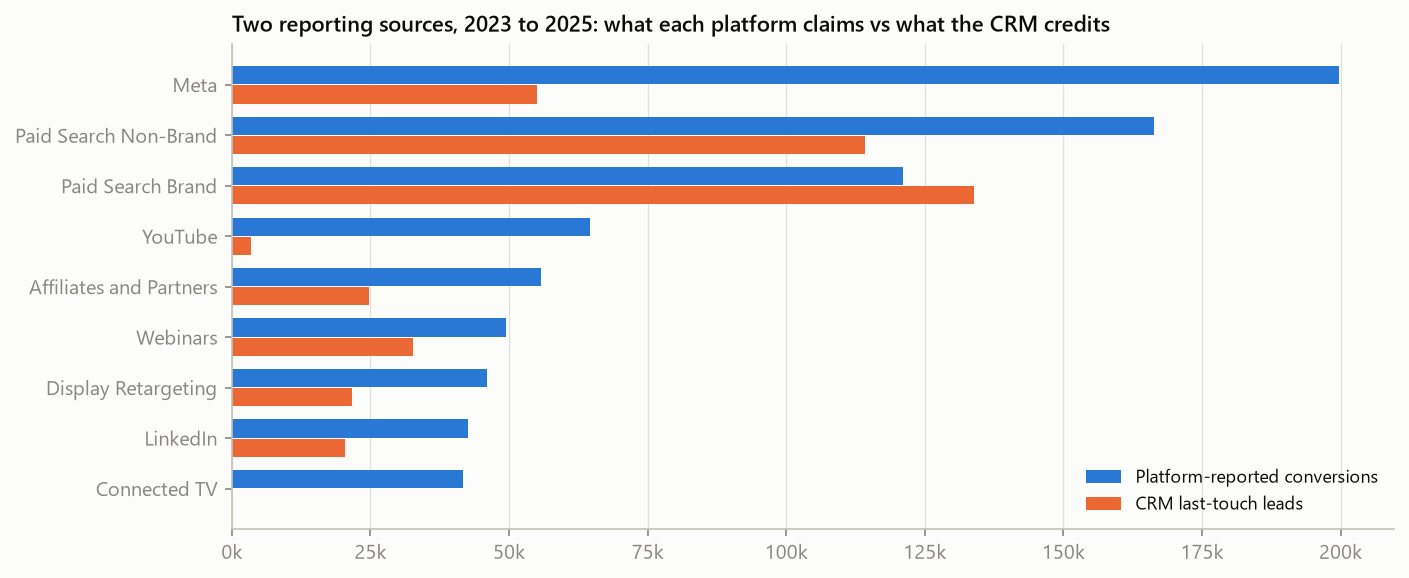
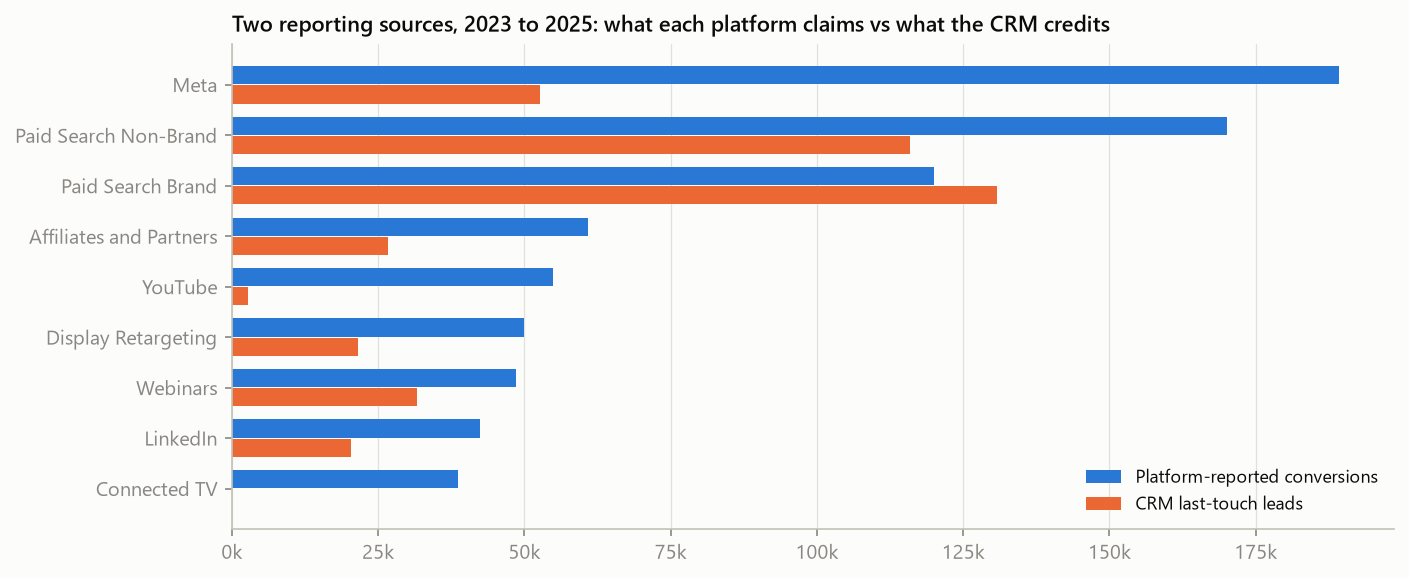
docs(eda): search watch notes without tests, and regenerate the report

diff --git a/eda/report.py b/eda/report.py
@@ -403,9 +403,10 @@ def watch_notes(d, prof) -> dict[str, str]:
     corr_nb = float(np.corrcoef(nat["paid_search_nonbrand"], leads)[0, 1])
     return {
         "paid_search_brand": f"its weekly spend tracks total leads closely (correlation {corr_brand:.2f}). Spend that follows demand "
-                             "can look like it causes demand. The regional pauses are the cleanest evidence of what it adds.",
+                             "can look like it causes demand, and Meta, YouTube and CTV create some of the searches it pays for. It never "
+                             "pauses, so no test separates what it adds from the demand it follows.",
         "paid_search_nonbrand": f"always on and seasonal (correlation with total leads {corr_nb:.2f}), so most of its signal comes "
-                                "from the regional budget tests and pauses, not from week-to-week swings.",
+                                "from quarterly market re-splits and plan changes, not from week-to-week swings.",
         "meta": "pushes land on the busy seasons, so spend rises when demand does. Each market's push comes on its own "
                 "week and at its own size, and that is the contrast to learn from; the June 2025 retest adds a late step up.",
         "linkedin": "always on with no pauses, so its signal comes from quarterly market re-splits and plan changes.",

diff --git a/docs/eda/EDA.md b/docs/eda/EDA.md
@@ -12,13 +12,13 @@ Built by `python -m eda` from the dbt warehouse only: the golden tables plus a f
 | fct_channel_weekly is a full grid | 28,080 rows (expected 28,080) | Pass |
 | fct_funnel is a full grid | 40,560 rows (expected 40,560) | Pass |
 | fct_controls_weekly is a full grid | 3,120 rows (expected 3,120) | Pass |
-| Spend matches the platform exports | $41.9M in both; difference $0.00 | Pass |
+| Spend matches the platform exports | $42.1M in both; difference $0.00 | Pass |
 | No negative values; clicks never exceed impressions | 0 bad rows | Pass |
-| Every lead maps to a channel | 0 unmapped of 830,676; 19% recorded as direct | Pass |
+| Every lead maps to a channel | 0 unmapped of 820,238; 18% recorded as direct | Pass |
 | Lead to close (won deals) | median 14 days; 80% between 8 and 24 | Pass |
-| Censoring at the end of the window | 41% of opportunities from the last 4 weeks are still open; treat the final weeks of deals as incomplete | Note |
+| Censoring at the end of the window | 37% of opportunities from the last 4 weeks are still open; treat the final weeks of deals as incomplete | Note |
 | Promo and price calendar loaded | 4 entries | Pass |
-| Channels are not collinear | largest correlation 0.51 (Meta and LinkedIn); largest VIF 2.0 | Pass |
+| Channels are not collinear | largest correlation 0.46 (Paid Search Brand and Paid Search Non-Brand); largest VIF 2.2 | Pass |
 
 ## 2. Outcome and spend over time
 
@@ -26,9 +26,9 @@ Built by `python -m eda` from the dbt warehouse only: the golden tables plus a f
 
 | Year | Paid spend | Leads | Closed-won deals | New contract value | Spend per deal |
 |---|---|---|---|---|---|
-| 2023 | $14.2M | 241,602 | 11,365 | $31.0M | $1,249 |
-| 2024 | $13.8M | 238,980 | 11,202 | $31.6M | $1,227 |
-| 2025 | $13.9M | 229,039 | 9,842 | $29.4M | $1,414 |
+| 2023 | $13.9M | 235,770 | 10,930 | $29.6M | $1,269 |
+| 2024 | $13.9M | 234,455 | 11,197 | $32.0M | $1,244 |
+| 2025 | $14.3M | 231,238 | 9,999 | $29.8M | $1,435 |
 
 The last few weeks of 2025 are undercounted for deals, because those leads have not had time to close.
 
@@ -40,14 +40,14 @@ Expected pattern for Midwest service fleets: busy when the season turns (AC swit
 
 | Period | Expected | Leads index (100 = average week) | Holds |
 |---|---|---|---|
-| Holiday weeks (51, 52, 1) | well below 100 | 74 | Yes |
-| Thanksgiving week (47) | below 100 | 92 | Yes |
-| Winter after the holidays (weeks 3 to 9) | below 100 | 91 | Yes |
-| Spring switchover, AC on (weeks 19 to 25) | above 100 | 108 | Yes |
-| Summer lull into early fall (weeks 29 to 37) | below 100 | 97 | Yes |
-| Fall switchover, heat on (weeks 40 to 45) | above 100 | 115 | Yes |
+| Holiday weeks (51, 52, 1) | well below 100 | 71 | Yes |
+| Thanksgiving week (47) | below 100 | 94 | Yes |
+| Winter after the holidays (weeks 3 to 9) | below 100 | 92 | Yes |
+| Spring switchover, AC on (weeks 19 to 25) | above 100 | 111 | Yes |
+| Summer lull into early fall (weeks 29 to 37) | below 100 | 95 | Yes |
+| Fall switchover, heat on (weeks 40 to 45) | above 100 | 106 | Yes |
 
-6 of 6 expectations hold. The data matches the planning calendar. During the year-end promo (weeks 46 to 50), deals run +5% relative to leads, which is what a discount on annual plans should do.
+6 of 6 expectations hold. The data matches the planning calendar. During the year-end promo (weeks 46 to 50), deals run +11% relative to leads, which is what a discount on annual plans should do.
 
 ## 4. How the media was flighted
 
@@ -57,15 +57,15 @@ Expected pattern for Midwest service fleets: busy when the season turns (AC swit
 
 | Channel | Weeks on (of 156) | Regions used | Typical run in a region (weeks) | Typical pause (weeks) |
 |---|---|---|---|---|
-| Paid Search Brand | 156 | 20 | 88 | 6 |
-| Paid Search Non-Brand | 156 | 20 | 92 | 7 |
+| Paid Search Brand | 156 | 20 | 156 | none |
+| Paid Search Non-Brand | 156 | 20 | 156 | none |
 | Meta | 156 | 20 | 156 | none |
 | LinkedIn | 156 | 20 | 156 | none |
 | YouTube | 156 | 20 | 156 | none |
-| Connected TV | 129 | 8 | 8 | 16 |
+| Connected TV | 128 | 8 | 7 | 15 |
 | Display Retargeting | 156 | 20 | 156 | none |
 | Affiliates and Partners | 156 | 20 | 156 | none |
-| Webinars | 124 | 20 | 1 | 7 |
+| Webinars | 122 | 20 | 1 | 8 |
 
 Media plan changes logged between annual plans:
 
@@ -95,15 +95,15 @@ Media plan changes logged between annual plans:
 
 | Year | Performance | Brand | Events |
 |---|---|---|---|
-| 2023 | 66% | 29% | 5% |
-| 2024 | 74% | 21% | 5% |
-| 2025 | 77% | 17% | 6% |
+| 2023 | 68% | 27% | 5% |
+| 2024 | 76% | 19% | 5% |
+| 2025 | 78% | 16% | 5% |
 
 ## 6. Reporting sources disagree
 
 ![Claims vs CRM](img/claims_vs_crm.png)
 
-Platforms claim 787,316 conversions in total; the CRM credits 405,762 leads to paid channels. Connected TV gets 0 last-touch leads because nobody clicks a TV ad. Neither source measures what a channel adds; that is the MMM's job.
+Platforms claim 774,768 conversions in total; the CRM credits 402,451 leads to paid channels. Connected TV gets 0 last-touch leads because nobody clicks a TV ad. Neither source measures what a channel adds; that is the MMM's job.
 
 ## 7. Controls
 
@@ -120,32 +120,32 @@ What the data shows about how each channel was bought and reported. These are ob
 
 ### Paid Search Brand
 
-*Performance channel.* Bids on searches for Fernhook. Spend follows how many people search the brand. Twice a year a few markets pause it for a few weeks as a planned brand test.
+*Performance channel.* Bids on every search for Fernhook, always on in every market. Spend follows how many people search the brand, and Meta, YouTube and CTV ads drive some of those searches.
 
-- **When it ran:** On every week of the window; used in 20 of 20 regions, with about 19 active in a typical on-week. Always on within each region, apart from 18 regional pauses of about 6 weeks.
-- **Spend:** 2023: $2.5M, 2024: $2.5M, 2025: $2.4M. Highest in Q2, lowest in Q1; the biggest week was 1.4 times a typical on-week. The top 5 regions take 52% of its spend and hold 50% of target accounts.
+- **When it ran:** On every week of the window; used in 20 of 20 regions, with about 20 active in a typical on-week. Always on in every region it uses.
+- **Spend:** 2023: $2.4M, 2024: $2.5M, 2025: $2.5M. Highest in Q2, lowest in Q3; the biggest week was 1.3 times a typical on-week. The top 5 regions take 50% of its spend and hold 51% of target accounts.
 - **Plan changes:** none between annual plans.
-- **Reporting:** the platform claims 121,092 conversions; the CRM credits 133,831 last-touch leads (0.9 times). Last-touch cost per lead: 2023: $51, 2024: $55, 2025: $60.
-- **What to watch in the MMM:** its weekly spend tracks total leads closely (correlation 0.89). Spend that follows demand can look like it causes demand. The regional pauses are the cleanest evidence of what it adds.
+- **Reporting:** the platform claims 119,955 conversions; the CRM credits 130,792 last-touch leads (0.9 times). Last-touch cost per lead: 2023: $52, 2024: $57, 2025: $61.
+- **What to watch in the MMM:** its weekly spend tracks total leads closely (correlation 0.88). Spend that follows demand can look like it causes demand, and Meta, YouTube and CTV create some of the searches it pays for. It never pauses, so no test separates what it adds from the demand it follows.
 
 ### Paid Search Non-Brand
 
-*Performance channel.* Always on. Budgets lean into busy seasons. Twice a year the team runs planned regional tests: a few markets pause and a few get extra budget.
+*Performance channel.* Always on in every market. Budgets lean into busy seasons and are re-split across markets every quarter.
 
-- **When it ran:** On every week of the window; used in 20 of 20 regions, with about 19 active in a typical on-week. Always on within each region, apart from 12 regional pauses of about 7 weeks.
-- **Spend:** 2023: $3.7M, 2024: $4.2M, 2025: $5.2M. Highest in Q2, lowest in Q4; the biggest week was 1.6 times a typical on-week. The top 5 regions take 50% of its spend and hold 47% of target accounts.
+- **When it ran:** On every week of the window; used in 20 of 20 regions, with about 20 active in a typical on-week. Always on in every region it uses.
+- **Spend:** 2023: $3.7M, 2024: $4.3M, 2025: $5.4M. Highest in Q2, lowest in Q4; the biggest week was 1.6 times a typical on-week. The top 5 regions take 49% of its spend and hold 47% of target accounts.
 - **Plan changes:** Apr 2023 +7% (Q1 review: CTV test expands, YouTube trimmed); Apr 2024 +12% (Attribution review: video and CTV show few last-touch leads); Feb 2025 +9% (New fiscal year: more for what last touch rewards).
-- **Reporting:** the platform claims 166,250 conversions; the CRM credits 114,175 last-touch leads (1.5 times). Last-touch cost per lead: 2023: $106, 2024: $109, 2025: $129.
-- **What to watch in the MMM:** always on and seasonal (correlation with total leads 0.19), so most of its signal comes from the regional budget tests and pauses, not from week-to-week swings.
+- **Reporting:** the platform claims 170,135 conversions; the CRM credits 115,877 last-touch leads (1.5 times). Last-touch cost per lead: 2023: $104, 2024: $110, 2025: $130.
+- **What to watch in the MMM:** always on and seasonal (correlation with total leads 0.42), so most of its signal comes from quarterly market re-splits and plan changes, not from week-to-week swings.
 
 ### Meta
 
 *Brand channel.* Always-on prospecting that pushes before and into the spring and fall busy seasons and eases off in slow weeks. Each market's timing differs.
 
 - **When it ran:** On every week of the window; used in 20 of 20 regions, with about 20 active in a typical on-week. Always on in every region it uses.
-- **Spend:** 2023: $1.5M, 2024: $1.4M, 2025: $1.0M. Highest in Q3, lowest in Q2; the biggest week was 2.3 times a typical on-week. The top 5 regions take 55% of its spend and hold 47% of target accounts.
+- **Spend:** 2023: $1.6M, 2024: $1.1M, 2025: $1.1M. Highest in Q2, lowest in Q4; the biggest week was 1.7 times a typical on-week. The top 5 regions take 42% of its spend and hold 34% of target accounts.
 - **Plan changes:** Oct 2023 -12% (Q4 plan: more retargeting for year-end); Aug 2024 -17% (Cost cut during the hiring freeze); Jun 2025 +23% (Meta retest after a new creative agency).
-- **Reporting:** the platform claims 199,719 conversions; the CRM credits 55,000 last-touch leads (3.6 times). Last-touch cost per lead: 2023: $73, 2024: $72, 2025: $67.
+- **Reporting:** the platform claims 189,241 conversions; the CRM credits 52,670 last-touch leads (3.6 times). Last-touch cost per lead: 2023: $75, 2024: $68, 2025: $68.
 - **What to watch in the MMM:** pushes land on the busy seasons, so spend rises when demand does. Each market's push comes on its own week and at its own size, and that is the contrast to learn from; the June 2025 retest adds a late step up.
 
 ### LinkedIn
@@ -153,9 +153,9 @@ What the data shows about how each channel was bought and reported. These are ob
 *Performance channel.* Lead-gen forms, always on. Market budgets are re-split every quarter.
 
 - **When it ran:** On every week of the window; used in 20 of 20 regions, with about 20 active in a typical on-week. Always on in every region it uses.
-- **Spend:** 2023: $1.5M, 2024: $1.3M, 2025: $1.0M. Highest in Q3, lowest in Q4; the biggest week was 1.9 times a typical on-week. The top 5 regions take 56% of its spend and hold 48% of target accounts.
+- **Spend:** 2023: $1.3M, 2024: $1.4M, 2025: $1.1M. Highest in Q2, lowest in Q3; the biggest week was 1.6 times a typical on-week. The top 5 regions take 53% of its spend and hold 48% of target accounts.
 - **Plan changes:** Aug 2024 -19% (Cost cut during the hiring freeze).
-- **Reporting:** the platform claims 42,632 conversions; the CRM credits 20,427 last-touch leads (2.1 times). Last-touch cost per lead: 2023: $195, 2024: $191, 2025: $177.
+- **Reporting:** the platform claims 42,460 conversions; the CRM credits 20,300 last-touch leads (2.1 times). Last-touch cost per lead: 2023: $191, 2024: $196, 2025: $181.
 - **What to watch in the MMM:** always on with no pauses, so its signal comes from quarterly market re-splits and plan changes.
 
 ### YouTube
@@ -163,19 +163,19 @@ What the data shows about how each channel was bought and reported. These are ob
 *Brand channel.* National flights that run several weeks ahead of each busy season, with a low level in between. Each flight targets about three in four markets.
 
 - **When it ran:** On every week of the window; used in 20 of 20 regions, with about 20 active in a typical on-week. Always on in every region it uses.
-- **Spend:** 2023: $1.1M, 2024: $0.8M, 2025: $0.4M. Highest in Q3, lowest in Q1; the biggest week was 15.3 times a typical on-week. The top 5 regions take 52% of its spend and hold 50% of target accounts.
+- **Spend:** 2023: $0.8M, 2024: $0.7M, 2025: $0.6M. Highest in Q3, lowest in Q4; the biggest week was 10.0 times a typical on-week. The top 5 regions take 46% of its spend and hold 47% of target accounts.
 - **Plan changes:** Apr 2023 -22% (Q1 review: CTV test expands, YouTube trimmed); Apr 2024 -31% (Attribution review: video and CTV show few last-touch leads); Jun 2025 -14% (Meta retest after a new creative agency).
-- **Reporting:** the platform claims 64,631 conversions; the CRM credits 3,376 last-touch leads (19.1 times). Last-touch cost per lead: 2023: $712, 2024: $686, 2025: $767.
+- **Reporting:** the platform claims 54,859 conversions; the CRM credits 2,816 last-touch leads (19.5 times). Last-touch cost per lead: 2023: $701, 2024: $718, 2025: $732.
 - **What to watch in the MMM:** flights are national and run ahead of each busy season, so they line up with the run-up in demand; long carryover means effects can land in the busy weeks after a flight ends.
 
 ### Connected TV
 
 *Brand channel.* A market test in 8 markets. Each runs its own flight ahead of each busy season and goes dark between flights.
 
-- **When it ran:** On 129 of 156 weeks nationally; used in 8 of 20 regions, with about 3 active in a typical on-week. Within a region it typically runs 8 weeks on, then pauses for 16 weeks (40 regional pauses in all).
-- **Spend:** 2023: $1.4M, 2024: $0.7M, 2025: $0.9M. Highest in Q3, lowest in Q4; the biggest week was 4.4 times a typical on-week. The top 5 regions take 82% of its spend and hold 36% of target accounts.
+- **When it ran:** On 128 of 156 weeks nationally; used in 8 of 20 regions, with about 3 active in a typical on-week. Within a region it typically runs 7 weeks on, then pauses for 15 weeks (40 regional pauses in all).
+- **Spend:** 2023: $1.4M, 2024: $0.9M, 2025: $0.7M. Highest in Q3, lowest in Q1; the biggest week was 3.3 times a typical on-week. The top 5 regions take 78% of its spend and hold 36% of target accounts.
 - **Plan changes:** Apr 2023 +15% (Q1 review: CTV test expands, YouTube trimmed); Apr 2024 -34% (Attribution review: video and CTV show few last-touch leads).
-- **Reporting:** the platform claims 41,662 conversions; the CRM credits 0 last-touch leads (with no CRM credit to compare against). Last-touch cost per lead: not defined (no CRM credit).
+- **Reporting:** the platform claims 38,598 conversions; the CRM credits 0 last-touch leads (with no CRM credit to compare against). Last-touch cost per lead: not defined (no CRM credit).
 - **What to watch in the MMM:** runs in only 8 regions. The other 12 regions are a natural comparison group, and each test market times its own flights.
 
 ### Display Retargeting
@@ -183,9 +183,9 @@ What the data shows about how each channel was bought and reported. These are ob
 *Performance channel.* Always-on retargeting of past site visitors. Market budgets are re-split every quarter.
 
 - **When it ran:** On every week of the window; used in 20 of 20 regions, with about 20 active in a typical on-week. Always on in every region it uses.
-- **Spend:** 2023: $1.2M, 2024: $1.5M, 2025: $1.5M. Highest in Q3, lowest in Q1; the biggest week was 1.9 times a typical on-week. The top 5 regions take 54% of its spend and hold 47% of target accounts.
+- **Spend:** 2023: $1.4M, 2024: $1.5M, 2025: $1.7M. Highest in Q2, lowest in Q4; the biggest week was 2.0 times a typical on-week. The top 5 regions take 58% of its spend and hold 48% of target accounts.
 - **Plan changes:** Oct 2023 +18% (Q4 plan: more retargeting for year-end); Aug 2024 -15% (Cost cut during the hiring freeze); Feb 2025 +13% (New fiscal year: more for what last touch rewards).
-- **Reporting:** the platform claims 46,095 conversions; the CRM credits 21,618 last-touch leads (2.1 times). Last-touch cost per lead: 2023: $164, 2024: $201, 2025: $209.
+- **Reporting:** the platform claims 49,980 conversions; the CRM credits 21,585 last-touch leads (2.3 times). Last-touch cost per lead: 2023: $197, 2024: $217, 2025: $231.
 - **What to watch in the MMM:** always on and retargets people who already visited, so it overlaps with demand from every other channel.
 
 ### Affiliates and Partners
@@ -193,29 +193,29 @@ What the data shows about how each channel was bought and reported. These are ob
 *Performance channel.* Placement and sponsor fees with local resellers and fleet consultants, set when each market's contracts renew every quarter. Commissions are booked as cost of sale.
 
 - **When it ran:** On every week of the window; used in 20 of 20 regions, with about 20 active in a typical on-week. Always on in every region it uses.
-- **Spend:** 2023: $0.5M, 2024: $0.7M, 2025: $0.6M. Highest in Q3, lowest in Q4; the biggest week was 1.4 times a typical on-week. The top 5 regions take 51% of its spend and hold 46% of target accounts.
+- **Spend:** 2023: $0.6M, 2024: $0.8M, 2025: $0.5M. Highest in Q2, lowest in Q4; the biggest week was 1.7 times a typical on-week. The top 5 regions take 58% of its spend and hold 46% of target accounts.
 - **Plan changes:** Apr 2024 +21% (Attribution review: video and CTV show few last-touch leads); Nov 2024 -24% (Two reseller contracts end).
-- **Reporting:** the platform claims 55,830 conversions; the CRM credits 24,726 last-touch leads (2.3 times). Last-touch cost per lead: 2023: $70, 2024: $80, 2025: $71.
-- **What to watch in the MMM:** fees change only when each market's contracts renew, so there are few distinct spend levels to learn from, and the top 5 regions take 51% of spend against 46% of accounts.
+- **Reporting:** the platform claims 60,949 conversions; the CRM credits 26,723 last-touch leads (2.3 times). Last-touch cost per lead: 2023: $74, 2024: $82, 2025: $68.
+- **What to watch in the MMM:** fees change only when each market's contracts renew, so there are few distinct spend levels to learn from, and the top 5 regions take 58% of spend against 46% of accounts.
 
 ### Webinars
 
 *Events channel.* Regional live events. Cost lands in the week of each event.
 
-- **When it ran:** On 124 of 156 weeks nationally; used in 20 of 20 regions, with about 2 active in a typical on-week. Spend comes in single weeks; a region typically goes 7 weeks between them.
-- **Spend:** 2023: $0.7M, 2024: $0.7M, 2025: $0.8M. Highest in Q1, lowest in Q4; the biggest week was 4.2 times a typical on-week. The top 5 regions take 53% of its spend and hold 50% of target accounts.
+- **When it ran:** On 122 of 156 weeks nationally; used in 20 of 20 regions, with about 2 active in a typical on-week. Spend comes in single weeks; a region typically goes 8 weeks between them.
+- **Spend:** 2023: $0.7M, 2024: $0.7M, 2025: $0.8M. Highest in Q2, lowest in Q4; the biggest week was 4.2 times a typical on-week. The top 5 regions take 57% of its spend and hold 51% of target accounts.
 - **Plan changes:** none between annual plans.
-- **Reporting:** the platform claims 49,405 conversions; the CRM credits 32,609 last-touch leads (1.5 times). Last-touch cost per lead: 2023: $68, 2024: $65, 2025: $66.
+- **Reporting:** the platform claims 48,591 conversions; the CRM credits 31,688 last-touch leads (1.5 times). Last-touch cost per lead: 2023: $70, 2024: $64, 2025: $67.
 - **What to watch in the MMM:** spend lands in one region and one week at a time, a strong natural experiment.
 
 ## 9. Strongest spend correlations
 
 | Channel A | Channel B | Correlation |
 |---|---|---|
-| Meta | LinkedIn | 0.51 |
-| Paid Search Non-Brand | Meta | -0.40 |
-| Paid Search Brand | YouTube | 0.40 |
-| Paid Search Brand | Connected TV | 0.35 |
-| Paid Search Non-Brand | LinkedIn | -0.35 |
+| Paid Search Brand | Paid Search Non-Brand | 0.46 |
+| LinkedIn | Affiliates and Partners | 0.44 |
+| Paid Search Brand | Meta | 0.41 |
+| YouTube | Connected TV | 0.41 |
+| Meta | Connected TV | 0.38 |
 
-Variance inflation (VIF) of national weekly spend: Meta 2.0, Paid Search Non-Brand 1.9, Paid Search Brand 1.7, LinkedIn 1.5, YouTube 1.5, Affiliates and Partners 1.4, Display Retargeting 1.3, Connected TV 1.2, Webinars 1.1.
+Variance inflation (VIF) of national weekly spend: Paid Search Brand 2.2, Paid Search Non-Brand 1.9, Connected TV 1.6, Meta 1.5, LinkedIn 1.4, Affiliates and Partners 1.3, YouTube 1.2, Display Retargeting 1.2, Webinars 1.0.
